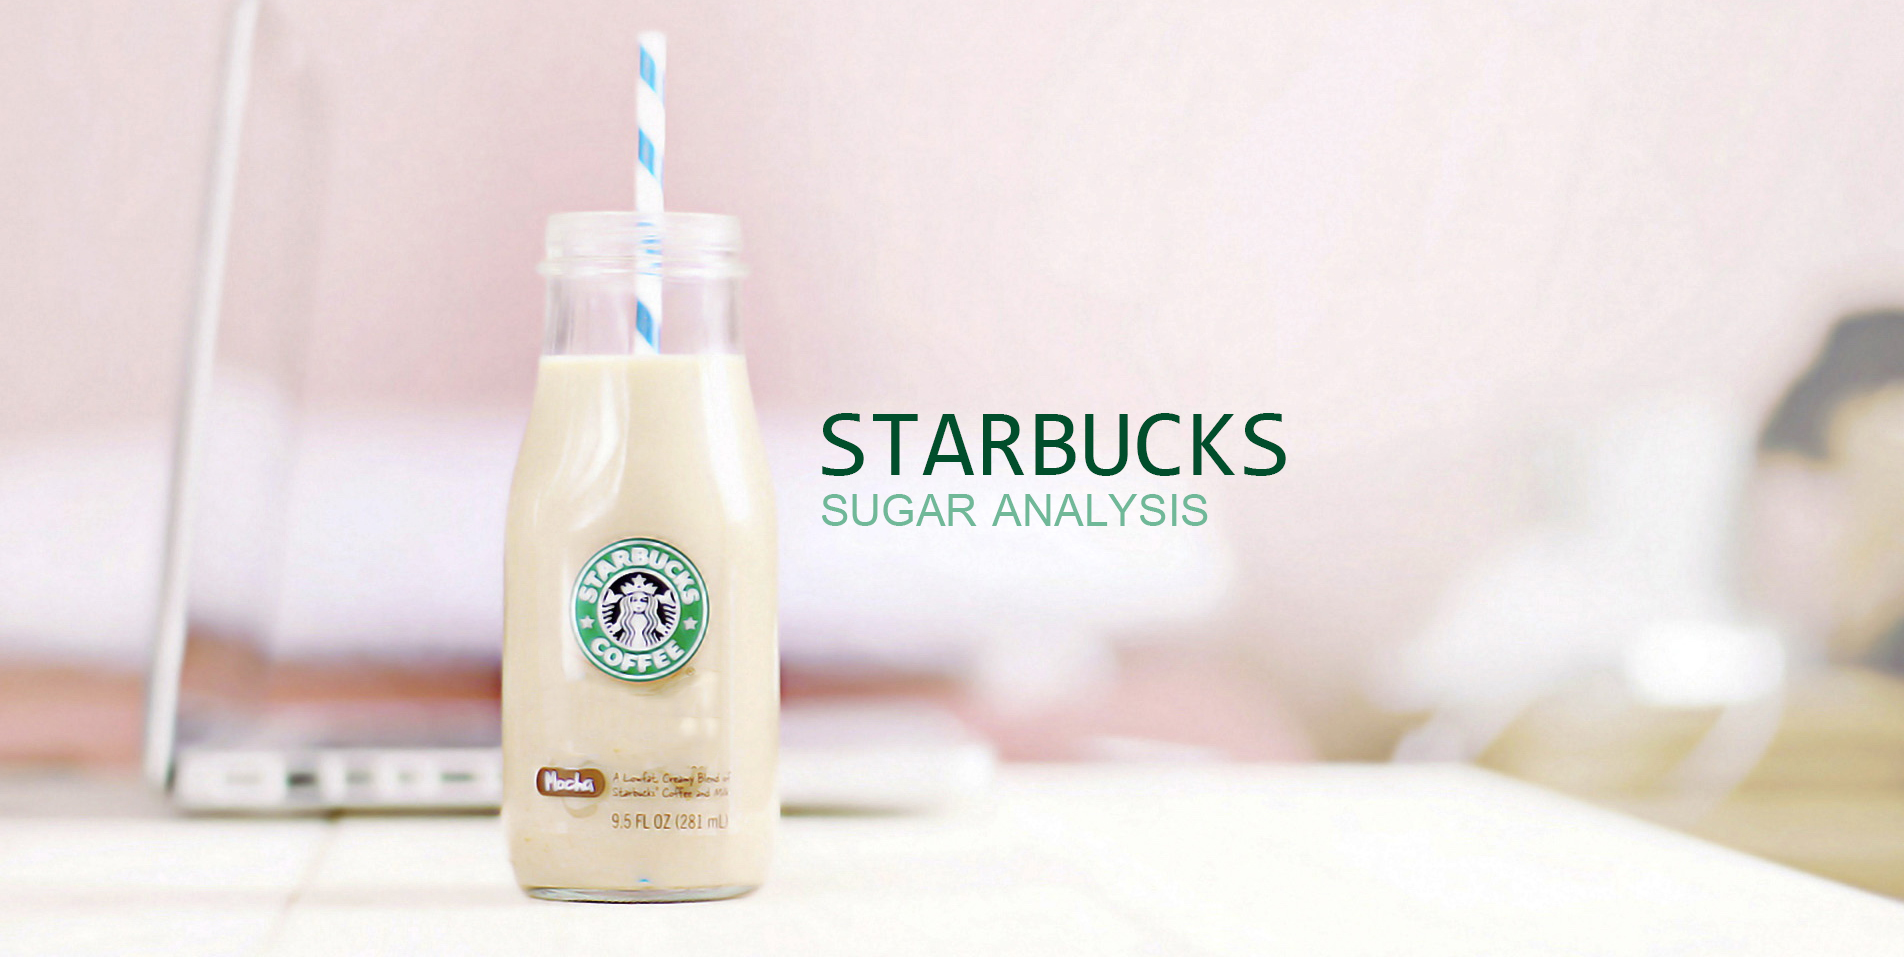
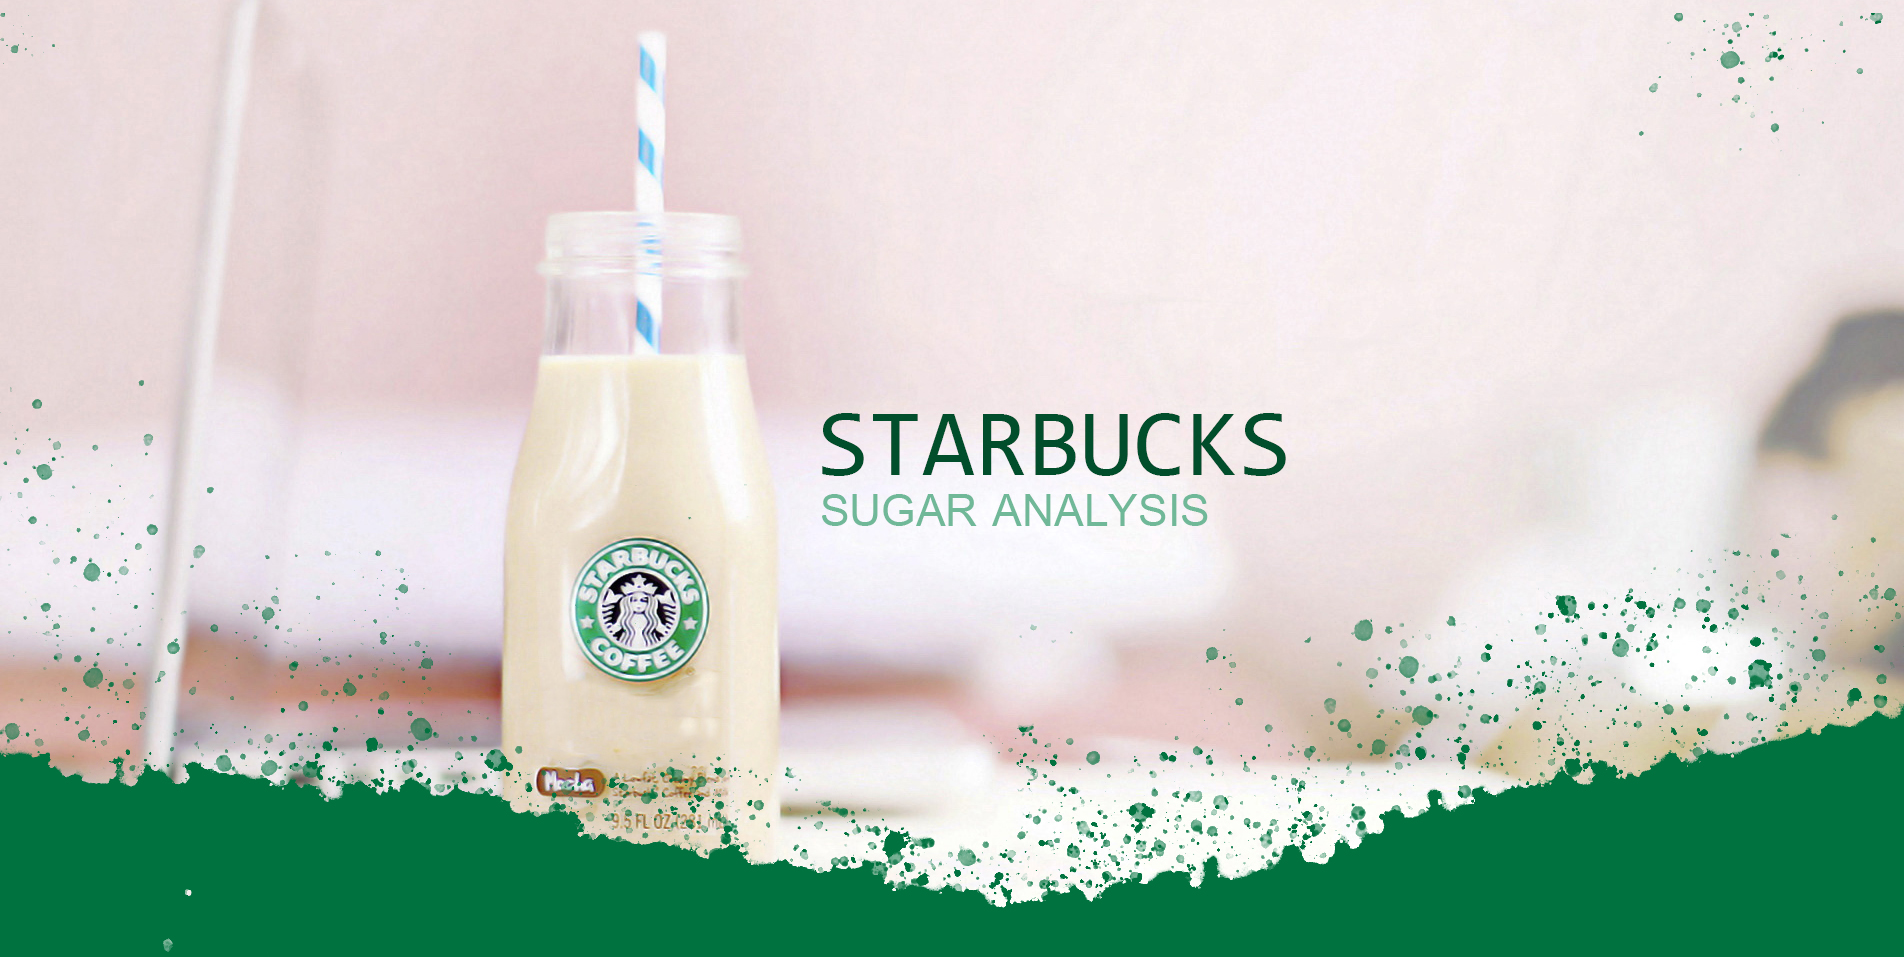
Debug heading

diff --git a/docs/css/creative.css b/docs/css/creative.css
@@ -135,11 +135,12 @@ header.masthead {
 
   background-image: url("../img/header.jpg");
     height: 100%;
-    background-attachment: fixed;
+    background-position: center;
+/*    background-attachment: fixed;
     background-position: center;
     background-repeat: no-repeat;
     background-size: cover;
-  background-position: center center;
+  background-position: center center; */  
   
   -webkit-background-size: cover;
   -moz-background-size: cover;

diff --git a/docs/index.html b/docs/index.html
@@ -73,7 +73,6 @@
         </div>
       </div>
     </div>
-    <img src="img/cover.png" alt="cover" style="position: absolute; pointer-events: none; z-index: 2;">
   </header>
 
   <section class="bg-primary" id="about">
